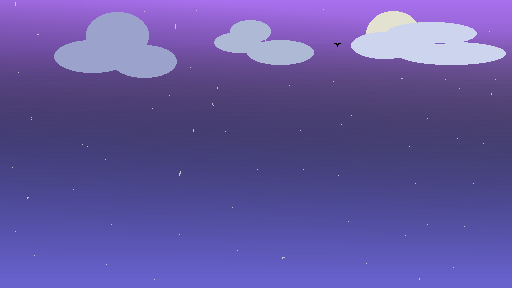
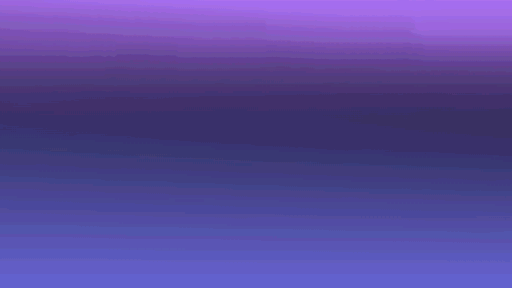
ultimos ajustes antes de release
mejorado stage3 (noche) y arreglado exitstate rompiendose y provocando memory leaks

Changed region(s): [[0.6875, 0.0312, 1.0, 0.25], [0.0938, 0.0312, 0.3438, 0.2812], [0.4062, 0.0625, 0.625, 0.25]]

diff --git a/ProjectVS/src/game/State/ExitState.cpp b/ProjectVS/src/game/State/ExitState.cpp
@@ -22,6 +22,7 @@ ExitState::ExitState(FightManager* game) : State(game) {
         {
             fmngr->userExit();
         });
+    yes->SetNoPointers();
 
     c = build_sdlcolor(0x33FFFC00);
     key = fontstring + "NO" + to_string(c.r) + to_string(c.g) + to_string(c.b);
@@ -31,13 +32,9 @@ ExitState::ExitState(FightManager* game) : State(game) {
     no = new Button(&sdl->msgs().at(key), w / 2 - w / 10, (h * 2 / 3) - w / 20, w / 20, w / 20, aux);
     no->SetOnClick([this]()
         {
-            State* tmp = fmngr->getState();
-            State* saved = fmngr->getSavedState();
-            fmngr->setState(saved);
-            fmngr->clearSavedState();
-            delete tmp;
-            return;
+            fmngr->loadSavedState();
         });
+    no->SetNoPointers();
 
     SDL_ShowCursor(1);
 }
@@ -52,11 +49,7 @@ void ExitState::update() {
     int w = fmngr->GetActualWidth();
     int h = fmngr->GetActualHeight();
     if (ih.isKeyDown(SDLK_ESCAPE) && ih.keyDownEvent()) {
-        State* tmp = fmngr->getState();
-        State* saved = fmngr->getSavedState();
-        fmngr->setState(saved);
-        fmngr->clearSavedState();
-        delete tmp;
+        fmngr->loadSavedState();
         return;
     }
 
@@ -72,6 +65,9 @@ void ExitState::update() {
             return;
         }
     }
+
+    yes->update();
+    no->update();
 }
 
 void ExitState::draw() 

diff --git a/ProjectVS/src/game/State/ConfigurationState.cpp b/ProjectVS/src/game/State/ConfigurationState.cpp
@@ -59,6 +59,8 @@ void ConfigurationState::update()
 {
     fullSCheck->update();
 
+    pointers[0]->update();
+
     sfxm->update();
     sfxp->update();
     muscm->update();
@@ -66,7 +68,10 @@ void ConfigurationState::update()
     exit->update();
     back->update();
 
-    pointers[0]->update();
+    if (exited)
+    {
+        fmngr->loadSavedState();
+    }
 }
 
 void ConfigurationState::IncreaseSFX()
@@ -119,20 +124,15 @@ void ConfigurationState::GoBack()
 {
     keyRelease = false;
     toReDraw = true;
-    State* tmp = fmngr->getState();
-    State* saved = fmngr->getSavedState();
-    fmngr->setState(saved);
-    fmngr->saveState(tmp);
+    exited = true;
 }
 void ConfigurationState::ExitState()
 {
     keyRelease = false;
     toReDraw = true;
-    State* tmp = fmngr->getState();
-    State* saved = fmngr->getSavedState();
-    delete saved;
-    fmngr->saveState(tmp);
-    fmngr->setState(new MenuState(fmngr));
+    fmngr->clearSavedState();
+    fmngr->saveState(new MenuState(fmngr));
+    exited = true;
 }
 void ConfigurationState::ToggleFullScreen()
 {

diff --git a/ProjectVS/src/game/State/StateMachine.h b/ProjectVS/src/game/State/StateMachine.h
@@ -28,7 +28,18 @@ public:
         return savedState;
     }
 
-    void clearSavedState() {
+    void clearSavedState()
+    {
+        if (savedState != nullptr)
+            delete savedState;
         savedState = nullptr;
+    }
+
+    void loadSavedState()
+    {
+        auto aux = getState();
+        setState(getSavedState());
+        saveState(aux);
+        clearSavedState();
     }
 };

diff --git a/ProjectVS/src/game/State/MenuState.cpp b/ProjectVS/src/game/State/MenuState.cpp
@@ -76,7 +76,6 @@ void MenuState::update() {
 
     if (ih.isKeyDown(SDLK_ESCAPE) && ih.keyDownEvent()) {
         if (fmngr->getSavedState() == nullptr) {
-            //pause
             fmngr->saveState(fmngr->getState());
             fmngr->setState(new ExitState(fmngr));
             return;

diff --git a/ProjectVS/src/game/State/ConfigurationState.h b/ProjectVS/src/game/State/ConfigurationState.h
@@ -17,6 +17,7 @@ class ConfigurationState : public State {
     bool keyRelease = true;
 
     bool toReDraw = true;
+    bool exited = false;
 public:
 
     ConfigurationState(FightManager* fmngr , short pI);
